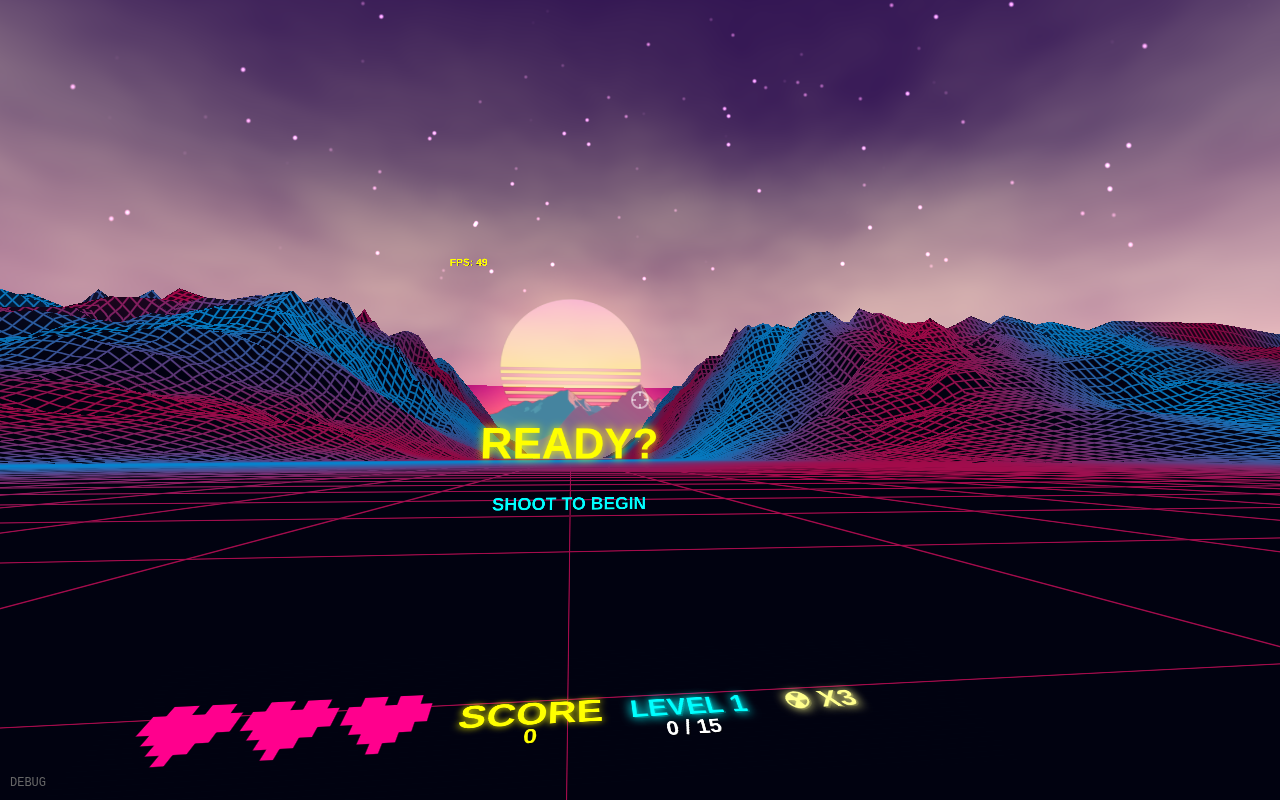
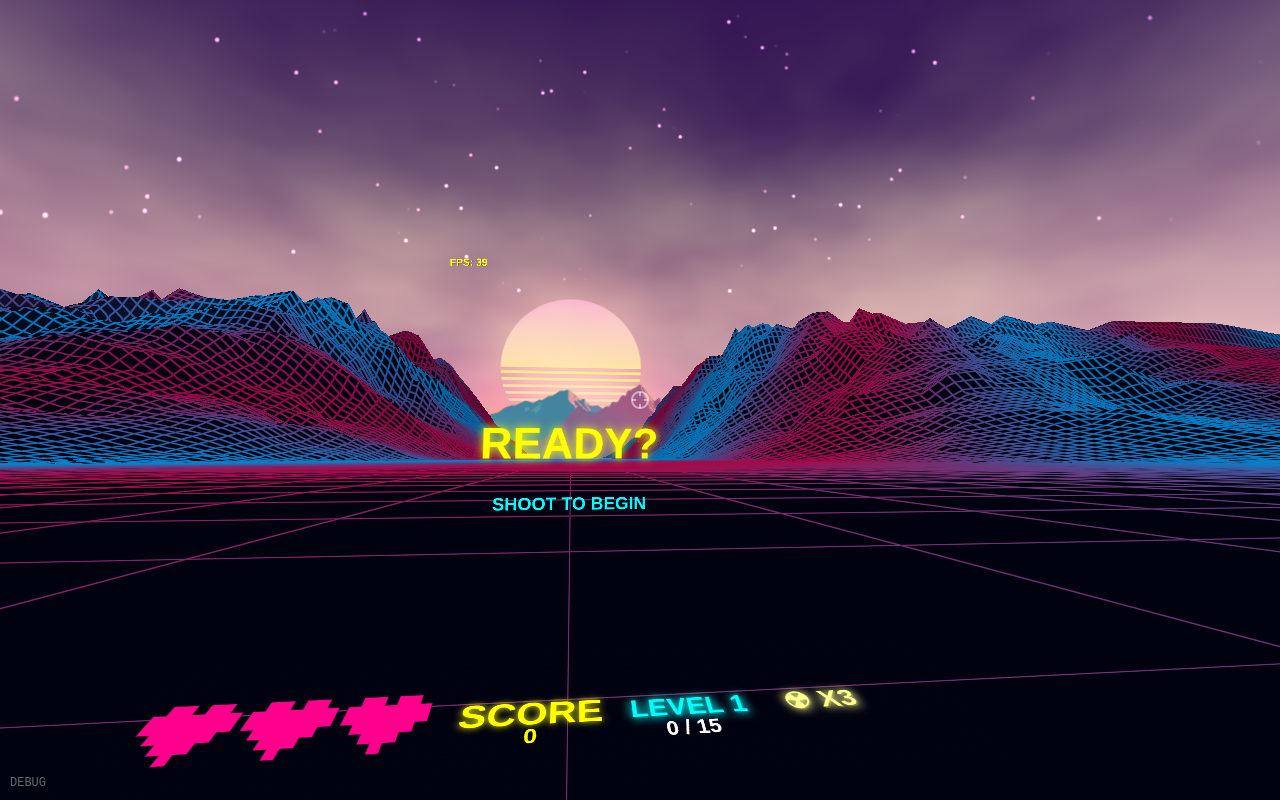
feat: Green skydome for alien biome, blaster hologram fixes, cloud dome edges, knight angle clamp, boss music
- Alien biome: green gradient skydome (dark green horizon to black top)
- Blaster hologram: slower animation (0.3x speed), less opaque (0.45), same look front/back via abs(fresnel)
- Synthwave: cloud dome uses full hemisphere with shader fade to eliminate hard edges
- Mirror knights: clamped to ±45 degrees from player forward direction
- Boss music: tracks last played per tier to avoid consecutive repeats

Changed region(s): [[0.0, 0.3438, 1.0, 0.6875], [0.875, 0.6562, 0.9062, 0.6875]]

diff --git a/biomes/alien-planet.js b/biomes/alien-planet.js
@@ -43,6 +43,26 @@ export function buildAlienPlanetScene(group, deps) {
   group.add(flashPlane);
   biomeTerrainMaterials.push({ type: 'overlay', material: flashMat });
 
+  // Green-gradient skydome (similar structure to desert biome but green tones)
+  const skyGeo = new THREE.SphereGeometry(2200, 24, 18);
+  const skyMat = new THREE.ShaderMaterial({
+    side: THREE.BackSide,
+    uniforms: {
+      topColor: { value: new THREE.Color(0x020a04) },      // Deep dark green-black
+      midColor: { value: new THREE.Color(0x0a2a12) },       // Dark forest green
+      horizonColor: { value: new THREE.Color(0x1a4a1a) },   // Bright green horizon
+      glowColor: { value: new THREE.Color(0x22aa44) },      // Neon green glow band
+    },
+    vertexShader: `varying vec3 vWorldPosition; void main(){ vec4 worldPosition=modelMatrix*vec4(position,1.0); vWorldPosition=worldPosition.xyz; gl_Position=projectionMatrix*modelViewMatrix*vec4(position,1.0); }`,
+    fragmentShader: `varying vec3 vWorldPosition; uniform vec3 topColor; uniform vec3 midColor; uniform vec3 horizonColor; uniform vec3 glowColor; void main(){ float worldY=vWorldPosition.y; float t1=smoothstep(-140.0,220.0,worldY); float t2=smoothstep(120.0,780.0,worldY); float t3=smoothstep(300.0,1200.0,worldY); vec3 col=horizonColor; col=mix(col,glowColor,t1); col=mix(col,midColor,t2); col=mix(col,topColor,t3); col=pow(col,vec3(1.0/2.2)); gl_FragColor=vec4(col*0.6,1.0); }`,
+    depthWrite: false,
+  });
+  const sky = new THREE.Mesh(skyGeo, skyMat);
+  sky.frustumCulled = false;
+  sky.renderOrder = -20;
+  group.add(sky);
+  registerFadeMaterial(skyMat);
+
   // Moon and glow
   const moonGeo = new THREE.IcosahedronGeometry(24, 1);
   const moonMat = new THREE.MeshBasicMaterial({ color: 0xddaaff, transparent: true, opacity: 0.95 });

diff --git a/main.js b/main.js
@@ -3356,8 +3356,9 @@ function createBlasterDisplay(controllerIndex) {
       holoColor += vec4(r * scanlines, b * scanlines, r, 1.0) / 84.0;
       
       // Fresnel edge glow (view-dependent rim lighting)
+      // Use abs() so it looks the same from front and back
       vec3 viewDir = normalize(cameraPosition - vPositionW);
-      float fresnel = dot(viewDir, vNormalW) * (1.6 - uFresnelOpacity / 2.0);
+      float fresnel = abs(dot(viewDir, vNormalW)) * (1.6 - uFresnelOpacity / 2.0);
       fresnel = clamp(uFresnelAmount - fresnel, 0.0, uFresnelOpacity);
       
       // Subtle flicker for old-TV effect
@@ -3374,11 +3375,11 @@ function createBlasterDisplay(controllerIndex) {
     uniforms: {
       uTime: { value: 0.0 },
       uColor: { value: new THREE.Vector3(0.0, 0.84, 1.0) },  // Cyan to match game theme
-      uOpacity: { value: 0.85 },
+      uOpacity: { value: 0.45 },
       uScanlineSize: { value: 8.0 },
-      uSignalSpeed: { value: 1.0 },
+      uSignalSpeed: { value: 0.3 },
       uFresnelAmount: { value: 0.45 },
-      uFresnelOpacity: { value: 1.0 }
+      uFresnelOpacity: { value: 0.5 }
     },
     vertexShader: holoVertexShader,
     fragmentShader: holoFragmentShader,

diff --git a/biomes/synthwave-valley.js b/biomes/synthwave-valley.js
@@ -301,9 +301,10 @@ export function buildSynthwaveValleyScene(group, deps) {
       vec3 cloudCol = baseColor * sunTint;
       cloudCol = pow(cloudCol, vec3(1.0 / 2.2));  // Gamma correct
 
-      // Soft edge fade at dome boundary
-      float edgeFade = smoothstep(0.0, 0.1, normalizedHeight) * smoothstep(1.0, 0.9, normalizedHeight);
-      cloudMask *= edgeFade;
+      // Edge fade - stronger at bottom edge
+      float bottomFade = smoothstep(0.0, 0.15, normalizedHeight);
+      float topFade = smoothstep(1.0, 0.85, normalizedHeight);
+      cloudMask *= bottomFade * topFade;
 
       // FIX: Increase alpha for better visibility in VR
       float alpha = cloudMask * 0.85;
@@ -322,7 +323,7 @@ export function buildSynthwaveValleyScene(group, deps) {
   `;
 
   // Lower cloud dome (closer to horizon)
-  const cloudDome1Geo = new THREE.SphereGeometry(2400, 32, 16, 0, Math.PI * 2, 0, Math.PI * 0.45);
+  const cloudDome1Geo = new THREE.SphereGeometry(2400, 32, 20, 0, Math.PI * 2, 0, Math.PI * 0.5);
   const cloudDome1Mat = new THREE.ShaderMaterial({
     uniforms: cloudUniforms,
     vertexShader: cloudVertexShader,

diff --git a/audio.js b/audio.js
@@ -1315,6 +1315,8 @@ const musicTracks = {
   ]
 };
 
+const lastBossTrack = {};
+
 const bossTracks = {
   1: [
     'https://pub-41b88aefe4524d1bb113747b0e9ba73b.r2.dev/B101_Level_05_Boss.mp3',
@@ -1437,11 +1439,20 @@ export function playBossMusic(tier) {
   const tracks = bossTracks[tier] ? [...bossTracks[tier]] : [];
   if (!tracks || tracks.length === 0) return;
 
-  const track = tracks[Math.floor(Math.random() * tracks.length)];
+  let track;
+  if (tracks.length === 1) {
+    track = tracks[0];
+  } else {
+    const last = lastBossTrack[tier];
+    const candidates = tracks.filter(t => t !== last);
+    track = candidates[Math.floor(Math.random() * candidates.length)];
+  }
+  lastBossTrack[tier] = track;
+
   currentPlaylist = [track];
   currentTrackIndex = 0;
 
-  console.log(`[music] Starting boss track (tier ${tier}): ${track}`);
+  console.log(`[music] Starting boss track (tier ${tier}): ${track.split('/').pop()}`);
   playNextTrack();
 }
 

diff --git a/enemies.js b/enemies.js
@@ -3106,6 +3106,18 @@ export function updateEnemies(dt, now, playerPos) {
           e.mesh.position.addScaledVector(mirrorDir, e.speed * speedMod * dt * phaseSpeed);
         }
 
+        // Clamp knight position to within 45 degrees from player's forward direction
+        const toEnemy = new THREE.Vector3().subVectors(e.mesh.position, playerPos);
+        toEnemy.y = 0;
+        const enemyAngle = Math.atan2(toEnemy.x, toEnemy.z);
+        const maxAngle = Math.PI / 4; // 45 degrees
+        if (Math.abs(enemyAngle) > maxAngle) {
+          const clampedAngle = Math.sign(enemyAngle) * maxAngle;
+          const dist = toEnemy.length();
+          e.mesh.position.x = playerPos.x + Math.sin(clampedAngle) * dist;
+          e.mesh.position.z = playerPos.z + Math.cos(clampedAngle) * dist;
+        }
+
         // Shield visual effect
         const reflectGlow = Math.sin(now * 0.003) * 0.2 + 0.5;
         for (const mat of e._cachedMaterials) {
